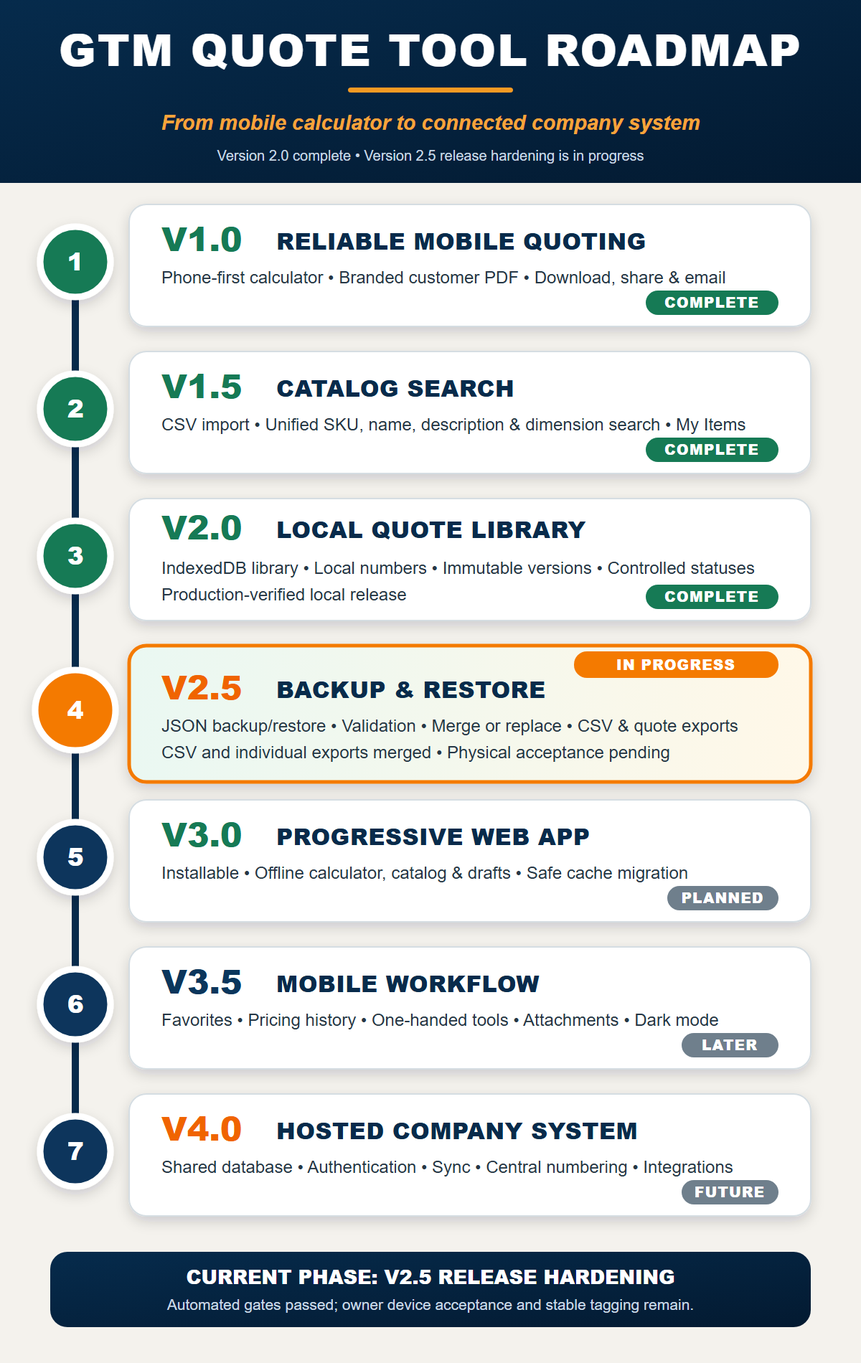
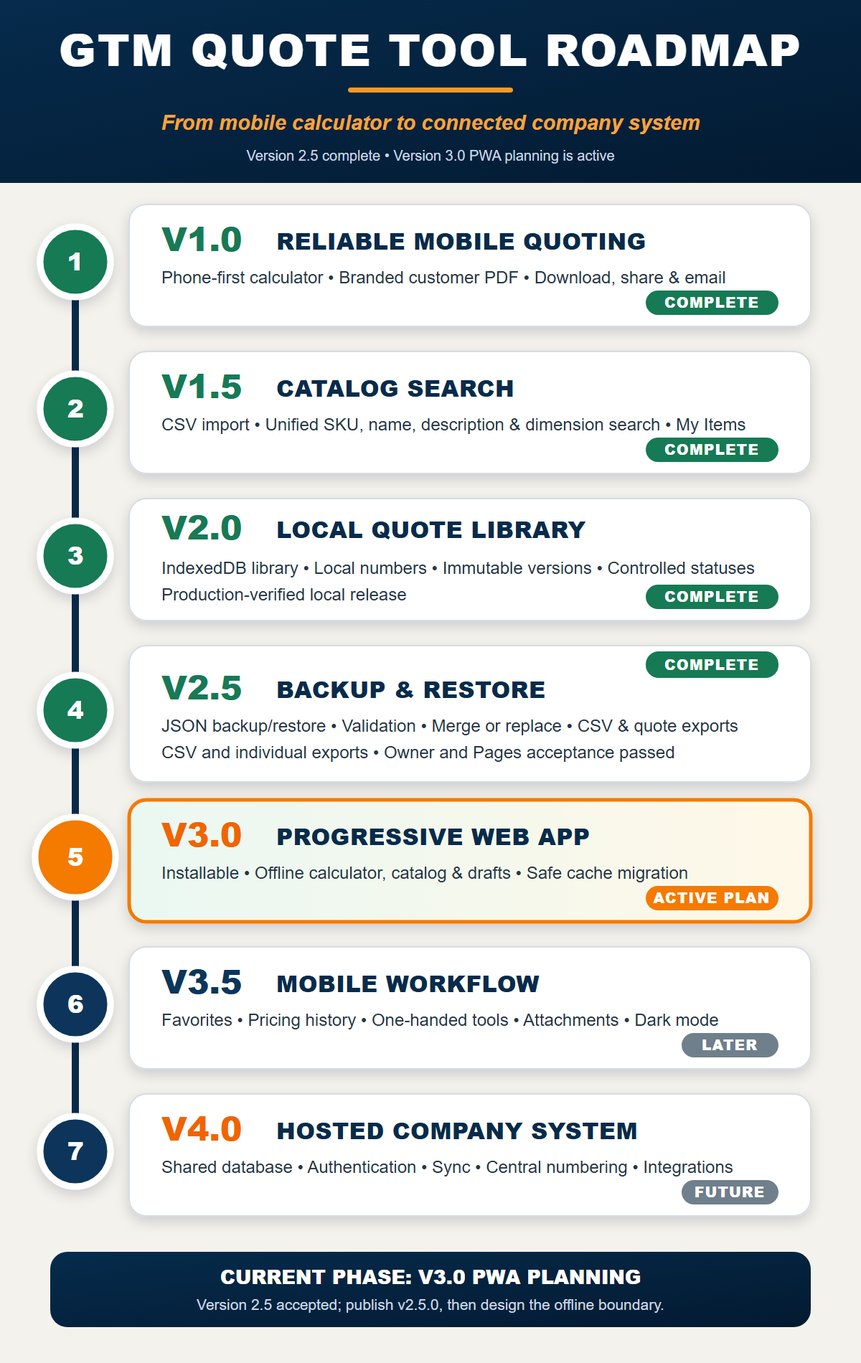
V2.5: record acceptance and activate V3 planning

diff --git a/tests/release-metadata.test.js b/tests/release-metadata.test.js
@@ -16,16 +16,17 @@ describe('Version 2.5 development metadata', () => {
     expect(APP_RELEASE_VERSION).toBe(packageMetadata.version);
   });
 
-  it('keeps the completed Version 2 and in-progress Version 2.5 status consistent', () => {
+  it('keeps the completed Version 2.5 and active Version 3 status consistent', () => {
     expect(read('README.md')).toContain('Version 2 is complete');
-    expect(read('README.md')).toContain('Version 2.5 backup and restore is in release hardening');
+    expect(read('README.md')).toContain('Version 2.5 backup and restore is complete');
     expect(read('docs/CURRENT_STATE.md')).toContain(buildLabel);
     expect(read('docs/PRODUCT_ROADMAP.md')).toContain('Version 2.0 is complete');
-    expect(read('docs/PRODUCT_ROADMAP.md')).toContain('Status (2026-08-06): Release hardening.');
+    expect(read('docs/PRODUCT_ROADMAP.md')).toContain('Status (2026-08-06): Complete.');
+    expect(read('docs/PRODUCT_ROADMAP.md')).toContain('Status (2026-08-06): Active planning.');
     expect(read('docs/V2_IMPLEMENTATION_PLAN.md')).toContain('Status: complete.');
-    expect(read('docs/V25_IMPLEMENTATION_PLAN.md')).toContain('Status: in progress.');
+    expect(read('docs/V25_IMPLEMENTATION_PLAN.md')).toContain('Status: complete after owner acceptance');
     expect(read('build-docs/OPEN_ITEMS.md')).toContain('Version 2.5 backup and restore');
-    expect(read('docs/assets/gtm-quote-tool-roadmap.svg')).toContain('CURRENT PHASE: V2.5 RELEASE HARDENING');
-    expect(read('docs/assets/gtm-quote-tool-roadmap.svg')).toContain('IN PROGRESS');
+    expect(read('docs/assets/gtm-quote-tool-roadmap.svg')).toContain('CURRENT PHASE: V3.0 PWA PLANNING');
+    expect(read('docs/assets/gtm-quote-tool-roadmap.svg')).toContain('ACTIVE PLAN');
   });
 });

diff --git a/docs/TEST_PLAN.md b/docs/TEST_PLAN.md
@@ -177,7 +177,7 @@ PR #19 release-hardening coverage additionally requires:
 
 ### Complete backup/restore
 
-Implementation status (2026-08-06): the Version 2.5 foundation covers consistent all-store snapshots, scoped localStorage capture, stable ordering/checksums, prototype-safe canonicalization, unsupported schema/duplicate/reference rejection, payload tampering, and immutable-version hash verification. The merged download slice adds exact serialized-byte revalidation, UTF-8 Blob/MIME and byte-size checks, deterministic UTC filenames, temporary object-URL cleanup, truthful success/failure states, real browser download parsing, five-workspace navigation, and before/after storage equality. PR #25 adds a pre-read 25 MiB guard, strict UTF-8/JSON/envelope validation, sanitized conflict analysis, and no-write preview coverage. PR #26 revalidates before commit, requests a safety-backup download, exercises merge/replace policies, verifies rollback/post-restore state, and locks/reloads stale UI memory after success. PR #27 adds RFC 4180/formula-safe CSV reports, individual JSON/PDF projections, immutable-version selection, deterministic local downloads, and five-profile browser coverage. PR6 closeout evidence is tracked in `V25_RELEASE_CHECKLIST.md`; physical owner acceptance and stable tagging remain required.
+Implementation status (2026-08-06): the Version 2.5 foundation covers consistent all-store snapshots, scoped localStorage capture, stable ordering/checksums, prototype-safe canonicalization, unsupported schema/duplicate/reference rejection, payload tampering, and immutable-version hash verification. The merged download slice adds exact serialized-byte revalidation, UTF-8 Blob/MIME and byte-size checks, deterministic UTC filenames, temporary object-URL cleanup, truthful success/failure states, real browser download parsing, five-workspace navigation, and before/after storage equality. PR #25 adds a pre-read 25 MiB guard, strict UTF-8/JSON/envelope validation, sanitized conflict analysis, and no-write preview coverage. PR #26 revalidates before commit, requests a safety-backup download, exercises merge/replace policies, verifies rollback/post-restore state, and locks/reloads stale UI memory after success. PR #27 adds RFC 4180/formula-safe CSV reports, individual JSON/PDF projections, immutable-version selection, deterministic local downloads, and five-profile browser coverage. PR #28 records owner physical acceptance on Android Chrome and laptop Chromium plus post-merge Pages verification; the annotated `v2.5.0` tag remains the final release action.
 
 - Complete-backup download tests must prove validation occurs before Blob/URL/click, Unicode file size comes from encoded Blob bytes, double activation cannot create concurrent exports, and every failure path re-enables the action without claiming success.
 - Browser tests capture the downloaded file, parse and revalidate it, verify all eight stores and scoped local keys, assert sensitive sentinels are included while unrelated/session keys are excluded, and prove no persisted state or outbound network request changes.
@@ -282,7 +282,14 @@ Release evidence is recorded against PR #19 head `22cf299` and merge commit `3e4
 - Android acceptance passed on 2026-07-27 using Samsung Galaxy S24 Ultra and Chrome, including navigation, software keyboard, draft/lifecycle workflows, PDF preview/download/share, privacy sentinels, and portrait/landscape layout.
 - Laptop Chromium acceptance passed on 2026-07-27 using a Dell desktop and Chrome with the owner's approved substitution for Edge, including legacy/IndexedDB retention, multi-tab protection, search/history, PDF/email/copy privacy, keyboard/zoom, direct reload, and console checks.
 - Rollback/re-entry passed against accepted Version 1.5 commit `3f1f1a0`: the legacy raw value and IndexedDB counts, IDs, finalized hashes, counters, and recovery records matched the pre-rollback inventory; the next allocation was `2026-002`.
-- The final stable tag and closeout-deployment verification remain post-merge release actions.
+- Owner acceptance and closeout deployment verification passed on 2026-08-06. The annotated `v2.5.0` tag remains a post-merge release action at the verified production commit.
+
+### Version 2.5 closeout evidence
+
+- PR #28 merged as `0716350` after the closeout documentation and release checklist were reviewed.
+- GitHub Pages deployment run `31128417026` passed for the merged commit; the live `/gtm-calc/` site returned HTTP 200 and served `v2.5.0 · release-closeout.6`.
+- Owner acceptance passed on Samsung Galaxy S24 Ultra/Chrome and Dell desktop/Chrome on 2026-08-06, covering backup download/inspection, Merge/Replace, safety-backup recovery, rollback, exports, privacy, corrupted-file no-write behavior, and accessibility/keyboard paths.
+- Local post-merge verification passed: `npm test` (153/153), `npm run build`, and `npm run test:production` (1/1). The build retains the two known warnings for vendored non-module PDF scripts.
 
 ## Current checks actually performed during planning
 

diff --git a/docs/V25_RELEASE_CHECKLIST.md b/docs/V25_RELEASE_CHECKLIST.md
@@ -1,8 +1,8 @@
 # Version 2.5 Release Closeout Checklist
 
-Status: release hardening in progress on `feature/v25-release-closeout`.
+Status: complete after PR #28 merged to `main` as `0716350` and owner acceptance was recorded on 2026-08-06.
 
-This checklist is the evidence boundary for the stable `v2.5.0` tag. The tag must not be created until the automated checks, physical device checks, and owner acceptance below are complete.
+This checklist is the evidence boundary for the stable `v2.5.0` tag. Automated checks, physical device checks, and owner acceptance are now complete; the tag is ready to be created at the verified production commit after this documentation is merged.
 
 ## Automated evidence
 
@@ -11,33 +11,35 @@ This checklist is the evidence boundary for the stable `v2.5.0` tag. The tag mus
 - [x] GitHub Pages deployed `90823ea` successfully at <https://sactowilly.github.io/gtm-calc/>.
 - [x] `gtm_quote_calculator_v1` compatibility and customer-output privacy tests pass.
 - [x] CSV formula-injection, JSON projection, immutable-version, and customer-PDF export tests pass.
-- [x] Roadmap and release documentation identify Version 2.5 as in progress.
+- [x] PR #28 merged to `main` as `0716350`.
+- [x] GitHub Pages deployed `0716350` successfully and the live marker is `v2.5.0 · release-closeout.6`.
+- [x] Roadmap and release documentation identify Version 2.5 as complete and Version 3.0 as active.
 
 ## Physical acceptance required from owner
 
-- [ ] Android Chrome: complete-backup download, inspect, merge, replace, safety-backup, rollback, and quote/library recovery on a physical phone.
-- [ ] Laptop Chromium: complete-backup download, inspect, merge, replace, safety-backup, rollback, CSV export, individual JSON/PDF export, and email/PDF fallback.
-- [ ] Verify downloaded filenames and open the downloaded JSON/PDF files.
-- [ ] Verify corrupted, oversized, tampered, and conflicting backups make no changes.
-- [ ] Verify finalized quote numbers, immutable hashes, source links, and customer-safe output remain unchanged after round trips.
-- [ ] Verify accessibility and keyboard recovery paths on the laptop.
-- [ ] Record device, browser, date, result, and any evidence links below.
+- [x] Android Chrome: complete-backup download, inspect, merge, replace, safety-backup, rollback, and quote/library recovery on a physical phone.
+- [x] Laptop Chromium: complete-backup download, inspect, merge, replace, safety-backup, rollback, CSV export, individual JSON/PDF export, and email/PDF fallback.
+- [x] Verify downloaded filenames and open the downloaded JSON/PDF files.
+- [x] Verify corrupted, oversized, tampered, and conflicting backups make no changes.
+- [x] Verify finalized quote numbers, immutable hashes, source links, and customer-safe output remain unchanged after round trips.
+- [x] Verify accessibility and keyboard recovery paths on the laptop.
+- [x] Record device, browser, date, result, and owner confirmation below.
 
 ## Owner acceptance record
 
 | Device/browser | Date | Result | Evidence | Owner initials |
 | --- | --- | --- | --- | --- |
-| Android Chrome |  | Pending |  |  |
-| Laptop Chromium |  | Pending |  |  |
+| Android Chrome — Samsung Galaxy S24 Ultra | 2026-08-06 | PASS | Owner-confirmed in session | Will Z. |
+| Laptop Chromium — Dell desktop/Chrome | 2026-08-06 | PASS | Owner-confirmed in session; Chrome accepted as Chromium laptop browser | Will Z. |
 
 ## Release actions after acceptance
 
 1. Update `README.md`, `docs/CURRENT_STATE.md`, `docs/PRODUCT_ROADMAP.md`, `docs/V25_IMPLEMENTATION_PLAN.md`, `docs/TEST_PLAN.md`, `BUILD-LOG.md`, `build-docs/DECISIONS.md`, and `build-docs/OPEN_ITEMS.md` to record acceptance.
 2. Update and visually inspect the roadmap SVG/PNG with Version 2.5 complete and Version 3.0 active.
-3. Merge the closeout PR to `main`.
+3. Merge this acceptance documentation PR to `main`.
 4. Run the post-merge Pages smoke test and verify the deployed commit.
 5. Create and push the annotated `v2.5.0` tag at the verified production commit.
 
 ## Rollback
 
-Before merge, close the PR and delete the feature branch. After merge, revert the closeout commit. Do not create or move the stable tag until owner acceptance is recorded. Existing local quote data and the V2.5 backup/restore workflows require no migration to roll back this documentation/verification slice.
+Before merge, close the PR and delete the feature branch. After merge, revert the acceptance commit if necessary; the stable tag should remain on the verified production commit. Existing local quote data and the V2.5 backup/restore workflows require no migration to roll back this documentation/verification slice.

diff --git a/docs/V25_IMPLEMENTATION_PLAN.md b/docs/V25_IMPLEMENTATION_PLAN.md
@@ -1,6 +1,6 @@
 # Version 2.5 Implementation Plan — Backup and Restore
 
-Status: in progress. Version 2.5 began on 2026-08-03 from the verified `v2.0.0` release line.
+Status: complete after owner acceptance and post-merge Pages verification on 2026-08-06. Version 3.0 planning is now active from the verified Version 2.5 recovery boundary.
 
 ## Release objective
 
@@ -138,18 +138,18 @@ Acceptance:
 Rollback: revert this PR. Export buttons and services are read-only; already-downloaded files are outside application control. Existing quote storage, backup/restore, PDF, email, and calculation behavior remain available after revert.
 
 
-### PR 6 — Version 2.5 release hardening and closeout (in progress)
+### PR 6 — Version 2.5 release hardening and closeout (complete)
 
 Goal: verify the complete round trip on physical phone/laptop browsers and publish stable `v2.5.0` only after owner acceptance. Evidence includes merge/replace rehearsals, collision fixtures, immutable-hash preservation, corrupt-record recovery, large-file behavior, accessibility, direct-source Pages compatibility, production build, post-merge Pages smoke, rollback instructions, roadmap advancement to Version 3.0, and an annotated stable tag.
 
-Status: in progress on `feature/v25-release-closeout` from `origin/main` at `90823ea`. The visible marker is `v2.5.0 · release-closeout.6`; package version is `2.5.0-alpha.6`. Automated evidence is recorded in `V25_RELEASE_CHECKLIST.md`; physical Android Chrome/laptop acceptance and owner approval remain open.
+Status: complete. PR #28 merged to `main` as `0716350`; the visible marker is `v2.5.0 · release-closeout.6`; package version is `2.5.0-alpha.6`. Owner acceptance passed on Samsung Galaxy S24 Ultra/Chrome and Dell desktop/Chrome on 2026-08-06. Pages deployment `31128417026` and post-merge smoke passed. The annotated `v2.5.0` tag remains the final release action.
 
 Deliverables:
 
 - Record the merged PR5, green CI, successful Pages deployment, local checks, and current production marker.
 - Provide an explicit owner-facing device checklist for backup download, inspection, merge/replace, safety-backup recovery, rollback, CSV/JSON/PDF exports, privacy, and accessibility.
-- Do not create or move the stable `v2.5.0` tag until the two device results and owner acceptance are recorded.
-- After acceptance, update the roadmap infographic/docs to mark Version 2.5 complete and Version 3.0 active, merge the closeout PR, run post-merge Pages smoke, and create the annotated tag.
+- Record the two device results and owner acceptance in `V25_RELEASE_CHECKLIST.md`.
+- Update the roadmap infographic/docs to mark Version 2.5 complete and Version 3.0 active, merge the acceptance documentation, run post-merge Pages smoke, and create the annotated tag at the verified production commit.
 
 ## Release acceptance
 
@@ -159,8 +159,8 @@ Deliverables:
 - Replace is reversible through the safety backup; injected failures leave the prior state intact.
 - CSV exports cannot execute spreadsheet formulas from customer-entered values.
 - Customer-facing PDFs/exports retain the existing privacy allowlist.
-- Physical Android Chrome and laptop Chromium acceptance plus automated unit, browser, accessibility, source-hosting, and production-build checks pass.
+- Physical Android Chrome and laptop Chromium acceptance plus automated unit, browser, accessibility, source-hosting, and production-build checks pass. The remaining release action is publishing the annotated `v2.5.0` tag.
 
 ## Deliberately deferred
 
-PWA installation/offline caching belongs to Version 3.0. Favorites and other workflow optimizations belong to Version 3.5. Shared storage, authentication, centralized numbering, server email, CRM/ERP integrations, and permissions belong to the possible Version 4 hosted migration.
+PWA installation/offline caching is the active Version 3.0 planning scope; implementation remains deferred until the stable `v2.5.0` tag is published. Favorites and other workflow optimizations belong to Version 3.5. Shared storage, authentication, centralized numbering, server email, CRM/ERP integrations, and permissions belong to the possible Version 4 hosted migration.

diff --git a/docs/CURRENT_STATE.md b/docs/CURRENT_STATE.md
@@ -8,7 +8,7 @@ Live application: <https://sactowilly.github.io/gtm-calc/>
 
 > Historical baseline: this document records the original `f7c35a1` audit. Subsequent Version 1 pull requests added Vite/ES modules, regression tests, phone-first quote controls, customer/buyer fields, UOM, explicit PDF download, and separate rep/customer email actions. The customer-PDF replacement branch removes the handwritten coordinate renderer in favor of the customer-safe HTML/CSS template documented in `PDF_TEMPLATE_FIELD_MAPPING.md` and `PDF_AND_SHARING.md`. The storage key and calculation formulas remain unchanged.
 
-## Current implementation update — 2026-08-04
+## Current implementation update — 2026-08-06
 
 The detailed audit below remains as historical evidence for the original baseline. The active code has since changed materially:
 
@@ -26,9 +26,9 @@ The detailed audit below remains as historical evidence for the original baselin
 - PR #17 merged the state-preserving Quote, Library, Customers, and Catalog workspaces. PR #18 merged navigation design hardening and passed GitHub CI plus the subsequent Pages deployment.
 - PR #19 head `22cf299` merged to `main` as `3e41007` after CI run `30130612587` passed. Pages run `30132341911` deployed the release candidate successfully.
 - Version 2 acceptance passed on 2026-07-27: live production phone/laptop/privacy smoke passed; Android Chrome passed on a Samsung Galaxy S24 Ultra; laptop Chromium passed on a Dell desktop in Chrome with the owner's approved substitution for Edge; and rollback/re-entry against accepted Version 1.5 commit `3f1f1a0` preserved the legacy raw value, IndexedDB counts, IDs, finalized hashes, counters, and recovery records before allocating `2026-002`.
-- Version 2 is complete and tagged `v2.0.0` at verified production commit `b61890c`. Version 2.5 is in release hardening with marker `v2.5.0 · release-closeout.6` and package version `2.5.0-alpha.6` on its current feature branch.
+- Version 2 is complete and tagged `v2.0.0` at verified production commit `b61890c`. Version 2.5 is complete after PR #28 merged as `0716350`, owner Android/laptop acceptance passed, and Pages deployment run `31128417026` succeeded. The development marker remains `v2.5.0 · release-closeout.6` and package version `2.5.0-alpha.6` until the stable tag is published.
 - The Version 2.5 foundation adds a readonly, single-transaction snapshot of all eight `gtm_quote_manager` stores plus scoped capture of the active quote, active/prior catalogs, manual items, catalog usage, and recovery localStorage records. It adds deterministic SHA-256 envelope validation, reference checks, and immutable-version hash verification. PR #24 merged the Export workspace's exact-byte-validated local JSON download, PR #25 merged the pre-read 25 MiB inspection and sanitized no-write conflict preview, and PR #26 merged the revalidated owner-confirmed Merge/Replace transaction with a pre-write safety backup, rollback path, and post-restore validation. The current PR adds RFC 4180/formula-safe quote, customer, and manual-item CSV reports plus individual quote JSON and existing customer-safe PDF downloads from saved quote cards. No raw customer, pricing, or record-ID data is exposed in the export status UI.
-- Physical Version 2.5 backup-download/restore evidence, owner acceptance, stable tagging, deletion/archive, PWA, backend, authentication, synchronization, and hosted access remain deferred according to the roadmap, `V25_IMPLEMENTATION_PLAN.md`, and `V25_RELEASE_CHECKLIST.md`.
+- Physical Version 2.5 backup-download/restore evidence and owner acceptance are complete. The annotated `v2.5.0` tag remains the final release action. PWA implementation is now the active Version 3.0 planning scope; deletion/archive, backend, authentication, synchronization, and hosted access remain deferred according to the roadmap, `V25_IMPLEMENTATION_PLAN.md`, and `V25_RELEASE_CHECKLIST.md`.
 
 The current verification counts are recorded in `BUILD-LOG.md` after each verified branch. The live GitHub Pages site changes only after a feature branch is reviewed and merged to `main`.
 

diff --git a/README.md b/README.md
@@ -10,7 +10,7 @@ GitHub Pages URL: https://sactowilly.github.io/gtm-calc/
 
 ## Current Release Track
 
-Version 1 is the accepted mobile quote foundation. Version 1.5 catalog search is complete. Version 2 is complete: its IndexedDB-backed quote/customer library and lifecycle controls passed automated and owner device acceptance while retaining the original browser save as a fallback. Version 2.5 backup and restore is in release hardening. The checksummed backup foundation, download, safe restore inspection, owner-confirmed transactional restore, CSV reports, and individual quote JSON/customer-safe PDF exports are merged; physical acceptance and the stable tag remain gated in PR6.
+Version 1 is the accepted mobile quote foundation. Version 1.5 catalog search is complete. Version 2 is complete: its IndexedDB-backed quote/customer library and lifecycle controls passed automated and owner device acceptance while retaining the original browser save as a fallback. Version 2.5 backup and restore is complete after automated, physical-device, owner, and post-merge Pages acceptance on 2026-08-06. The annotated `v2.5.0` tag is the final release action; Version 3.0 PWA planning can now begin.
 
 The release smoke checks remain:
 
@@ -60,8 +60,8 @@ All costs, prices, freight, totals, and GTM dollar values are USD.
 - **Version 1.0 - Reliable Mobile Quoting:** phone-first calculator, branded customer PDF, download/share/email, and local active quote storage.
 - **Version 1.5 - Catalog Search (complete):** CSV import/reporting, normalized unified search, local catalog storage/rollback, manual items, and recent items are merged and owner-tested.
 - **Version 2.0 - Local Quote Library (complete):** IndexedDB-backed searchable drafts, customer recall, phone-scale results, highlighted duplicates, local quote numbers, immutable version history, revisions, controlled statuses, and separate Quote/Library/Clients/Catalog workspaces are accepted. Version 2.5 adds the fifth Export destination.
-- **Version 2.5 - Backup and Restore (release hardening):** the complete JSON/checksum foundation, validated local backup download, restore inspection, explicit Merge/Replace transaction, RFC 4180/formula-safe CSV reports, and individual quote JSON/customer-safe PDF downloads are merged. PR6 records physical acceptance, post-merge Pages verification, owner approval, and the annotated `v2.5.0` tag.
-- **Version 3.0 - Progressive Web App:** installable app shell, offline catalog/calculator/drafts, update notifications, and cache migration.
+- **Version 2.5 - Backup and Restore (complete):** the complete JSON/checksum foundation, validated local backup download, restore inspection, explicit Merge/Replace transaction, RFC 4180/formula-safe CSV reports, and individual quote JSON/customer-safe PDF downloads passed physical acceptance, owner approval, and post-merge Pages verification. The annotated `v2.5.0` tag is the release boundary.
+- **Version 3.0 - Progressive Web App (active planning):** installable app shell, offline catalog/calculator/drafts, update notifications, and cache migration. PWA implementation starts only from the verified V2.5 data/recovery boundary.
 - **Version 3.5 - Mobile Workflow Improvements:** favorites, recent customers, frequent item combinations, pricing history, attachments, one-handed controls, and dark mode.
 - **Version 4.0 - Hosted Company System:** future centralized access with shared storage, authentication, synchronization, central quote numbering, integrations, reporting, and permissions.
 

diff --git a/docs/PRODUCT_ROADMAP.md b/docs/PRODUCT_ROADMAP.md
@@ -99,7 +99,7 @@ Reduce quote-entry time through dependable local search across a standard catalo
 
 ## Version 2.0 — Local quote library
 
-**Status (2026-07-27): Complete.** Version 2.0 is complete. PRs #11–#20 delivered the IndexedDB foundation, visible draft/customer library, direct-source compatibility, phone-scale results, duplicate review state, lifecycle controls, four state-preserving workspaces, navigation design hardening, output/data-loss fixes, atomic-failure coverage, release evidence, and stable closeout without changing the `gtm_quote_calculator_v1` fallback or customer-privacy boundary. PR #20 merged as `b61890c`; CI run `30304252373`, Pages run `30304688708`, and the live stable smoke passed before annotated tag `v2.0.0` was published on that exact commit. Version 2.5 backup and restore is now in progress.
+**Status (2026-07-27): Complete.** Version 2.0 is complete. PRs #11–#20 delivered the IndexedDB foundation, visible draft/customer library, direct-source compatibility, phone-scale results, duplicate review state, lifecycle controls, four state-preserving workspaces, navigation design hardening, output/data-loss fixes, atomic-failure coverage, release evidence, and stable closeout without changing the `gtm_quote_calculator_v1` fallback or customer-privacy boundary. PR #20 merged as `b61890c`; CI run `30304252373`, Pages run `30304688708`, and the live stable smoke passed before annotated tag `v2.0.0` was published on that exact commit. Version 2.5 backup and restore is complete and Version 3.0 planning is now active.
 
 ### Objective
 
@@ -139,7 +139,7 @@ Replace the single active quote with a durable IndexedDB quote/customer library 
 
 ## Version 2.5 — Backup and restore
 
-**Status (2026-08-06): Release hardening.** PR #24 merged the accessible Export workspace and validated local JSON download; PR #25 merged safe preview-only inspection; PR #26 merged the owner-confirmed transactional Merge/Replace restore; and PR #27 merged RFC 4180/formula-safe CSV reports plus individual quote JSON and customer-safe PDF downloads. PR6 now records physical acceptance, post-merge Pages verification, owner approval, and the annotated `v2.5.0` tag before Version 3 begins.
+**Status (2026-08-06): Complete.** PR #24 merged the accessible Export workspace and validated local JSON download; PR #25 merged safe preview-only inspection; PR #26 merged the owner-confirmed transactional Merge/Replace restore; PR #27 merged RFC 4180/formula-safe CSV reports plus individual quote JSON and customer-safe PDF downloads; and PR #28 merged release-hardening documentation at `0716350`. Owner Android Chrome and laptop Chromium acceptance passed, post-merge Pages deployment `31128417026` passed, and the annotated `v2.5.0` tag is the remaining release-boundary action before Version 3 implementation begins.
 
 ### Objective
 
@@ -172,6 +172,8 @@ Give users a complete, inspectable escape hatch before PWA/offline expectations 
 - Backup/restore round trips all records and preserves immutable version hashes.
 
 ## Version 3.0 — Progressive Web App
+
+**Status (2026-08-06): Active planning.** The V2.5 backup/restore and export boundary is accepted on physical devices and verified after merge. V3 planning may now define the manifest, service-worker cache policy, offline shell, update UX, and migration tests; implementation remains split into reviewable PRs and must not change persisted quote data without migration evidence.
 
 ### Objective
 

diff --git a/build-docs/OPEN_ITEMS.md b/build-docs/OPEN_ITEMS.md
@@ -23,5 +23,6 @@
 | Defer deletion/archive policy | complete | Deletion, archive, and abandoned-revision cleanup remain outside Version 2 and require a separate approved roadmap slice. |
 | Version 2 physical acceptance | complete | Samsung Galaxy S24 Ultra/Chrome and Dell desktop/Chrome passed on 2026-07-27; owner approved Chrome as the laptop Edge substitution. |
 | Version 2 stable closeout | complete | PR #20 merged as `b61890c`; CI run `30304252373`, Pages run `30304688708`, live stable smoke, and annotated tag `v2.0.0` are verified. |
-| Version 2.5 backup and restore | release hardening | PR 1 backup foundation, PR #24 local Export/download, PR #25 preview-only inspection, PR #26 transactional Merge/Replace restore, and PR #27 CSV/individual exports are merged. PR6 closeout is on `feature/v25-release-closeout`; physical release evidence, owner acceptance, post-merge Pages smoke, and the annotated `v2.5.0` tag remain open. |
-| Version 2.5 PR 2 physical acceptance | pending release evidence | On Android Chrome and laptop Chromium, verify the five-tab navigation, warning, actual downloaded JSON/filename, offline behavior, repeated activation, keyboard behavior, and unchanged saved data. PR #24 already merged; do not claim these checks passed until recorded. |
+| Version 2.5 backup and restore | complete | PRs #24–#28 delivered the Export workspace, validated backup download, safe inspection, transactional Merge/Replace restore, CSV/individual exports, and release closeout. Owner Android Chrome/laptop Chromium acceptance and post-merge Pages verification passed on 2026-08-06. The annotated `v2.5.0` tag is the final release action. |
+| Version 2.5 physical acceptance | complete | Samsung Galaxy S24 Ultra/Chrome and Dell desktop/Chrome passed backup/restore, safety-backup recovery, rollback, exports, privacy, corrupted-file no-write, immutable-record, accessibility, and keyboard checks on 2026-08-06. |
+| Version 3.0 PWA planning | active planning | Begin manifest, service-worker cache policy, offline-shell, update-notification, and cache-migration design only after the annotated `v2.5.0` tag is published. |

diff --git a/BUILD-LOG.md b/BUILD-LOG.md
@@ -1,5 +1,13 @@
 # Build Log
 
+### 2026-08-06 -- Version 2.5 acceptance and Version 3.0 planning activation
+
+- Owner confirmed the complete Version 2.5 physical acceptance checklist passed on Android Chrome using a Samsung Galaxy S24 Ultra and laptop Chromium using a Dell desktop/Chrome. Coverage included complete backup download/inspection, Merge/Replace, safety-backup recovery, rollback, CSV/JSON/PDF exports, email/PDF fallback, privacy, corrupted/oversized/tampered/conflicting no-write behavior, immutable quote data, and accessibility/keyboard paths.
+- Created `feature/v25-release-acceptance` from updated `main` at `0716350` and recorded the acceptance results in `docs/V25_RELEASE_CHECKLIST.md`. The unrelated `.codex/` directory remains untracked and untouched.
+- Updated the README, current state, Version 2.5 plan, test plan, decision/open-item logs, and roadmap SVG/PNG to mark Version 2.5 complete and Version 3.0 active planning. The annotated `v2.5.0` tag remains the final release action.
+- Confirmed post-merge Pages deployment run `31128417026` succeeded for `0716350`; live `/gtm-calc/` returned HTTP 200 and served `v2.5.0 · release-closeout.6`.
+- Reverified on merged `main`: `npm test` (153/153), `npm run build`, and `npm run test:production` (1/1). The build retains the two known warnings for vendored non-module PDF scripts.
+
 ### 2026-08-06 -- Version 2.5 release hardening (in progress)
 
 - Created `feature/v25-release-closeout` from updated `origin/main` at `90823ea` after PR #27 merged. The unrelated `.codex/` directory remains untracked and untouched.

diff --git a/build-docs/DECISIONS.md b/build-docs/DECISIONS.md
@@ -1,5 +1,12 @@
 # Decisions
 
+## Version 2.5 Acceptance and Version 3.0 Planning Gate
+
+**DECISION:** Accept Version 2.5 as complete after PR #28 merged as `0716350`, owner physical acceptance passed on Samsung Galaxy S24 Ultra/Chrome and Dell desktop/Chrome, post-merge Pages deployment `31128417026` passed, and local post-merge unit/build/production smoke checks passed. Advance the roadmap to active Version 3.0 planning. Publish the annotated `v2.5.0` tag at the verified production commit before implementing service-worker or cache changes.
+**RATIONALE:** The complete backup/restore and export workflow now has automated, physical-device, owner, and production evidence. Keeping the stable tag as the remaining explicit release action preserves an auditable boundary before PWA caching can affect recovery behavior.
+**DATE:** 2026-08-06
+**PARTIES:** Will Z, Goodall program review, Codex
+
 ## Version 2.5 Local Backup Download Policy
 
 **DECISION:** Place the complete backup in a fifth `Export` workspace, include only persisted data, revalidate the exact readable JSON before Blob creation, name it `gtm-calc-backup-YYYY-MM-DD.json` from the envelope's UTC export date, and report that download was started rather than claiming the browser saved it. Display a permanent warning that the unencrypted file contains customer/contact and internal pricing/profitability data.
